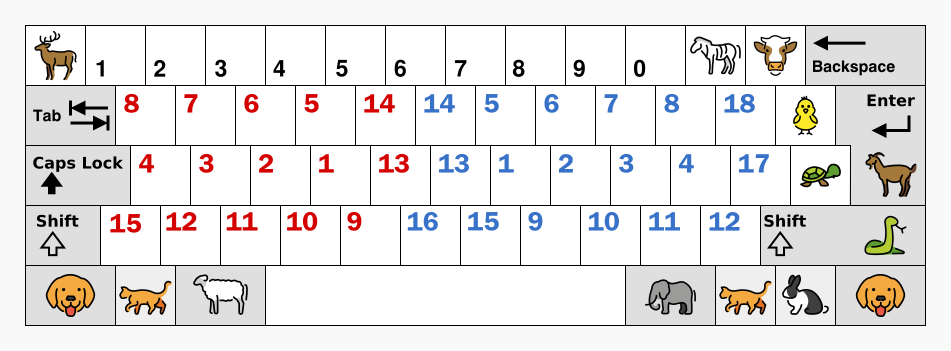
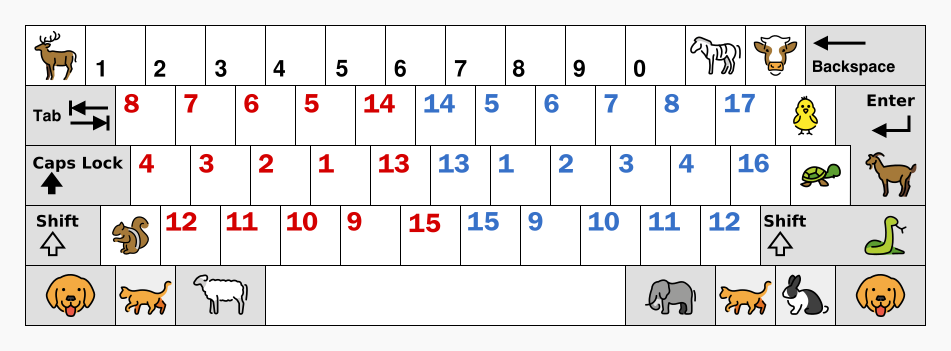
Add files via upload

diff --git a/keyboard/clavaro-tk.py b/keyboard/clavaro-tk.py
@@ -1,27 +1,42 @@
 
-# python clavaro-tk.py "phrkfzwuybq" "slntvgaioec" "'xdmjåöä,.-"
+# python clavaro-tk.py "phrkfzwuybq" "slntvgaioec" "xdmjåöä,.-" # das-fi
+# python clavaro-tk.py "qwertyuiop[" "asdfghjkl;'" "zxcvbnm,./" # en-us
+# python clavaro-tk.py "qwertyuiopå" "asdfghjklöä" "zxcvbnm,.-" # fi
+# clavaro.png 951 x 351 pixels
 
+import argparse
 from tkinter import *
 from PIL import Image, ImageTk
 import random
 import time
 import sys
 
+
+def read_args ():
+  parser = argparse.ArgumentParser ()
+  parser.add_argument ('keyorder', nargs='*')
+  parser.add_argument ("--timelimit", "-t", type=int, default=0)
+  parser.add_argument ("--printresults", "-r", action="store_true")
+  parser.add_argument ("--eventinfo", "-e", action="store_true")
+  args = parser.parse_args ()
+  return (args)
+
+args = read_args()
+
 positions1 = [
   "left-8","left-7","left-6","left-5","left-14",
-  "right-14","right-5","right-6","right-7","right-8","right-18",
+  "right-14","right-5","right-6","right-7","right-8","right-17",
   "left-4","left-3","left-2","left-1","left-13",
-  "right-13","right-1","right-2","right-3","right-4","right-17",
-  # "left-15",
-  "left-12","left-11","left-10","left-9",
-  "right-16","right-15","right-9","right-10","right-11","right-12"]
+  "right-13","right-1","right-2","right-3","right-4","right-16",
+  "left-12","left-11","left-10","left-9","left-15",
+  "right-15","right-9","right-10","right-11","right-12"]
 
-qwerty = "qwertyuiop[" "asdfghjkl;'" "zxcvbnm,./"
-# qwerty = "qwertyuiopå" "asdfghjklöä" "zxcvbnm,.-"
+# qwerty = "qwertyuiop[" "asdfghjkl;'" "zxcvbnm,./"
+qwerty = "qwertyuiopå" "asdfghjklöä" "zxcvbnm,.-"
 # qwerty = "phrkfzwuybq" "slntvgaioec" "xdmjåöä,.-"
 
-if len (sys.argv) > 1:
-  qwerty = "".join (sys.argv [1:])
+if args.keyorder:
+  qwerty = "".join (args.keyorder)
 print ("Key order:", qwerty)
 
 qw = dict (zip (positions1,qwerty))
@@ -30,10 +45,13 @@ special = {
   "adiaeresis": "ä",
   "odiaeresis": "ö",
   "aring": "å",
+  "bracketleft": "[",
   "apostrophe": "'",
+  "semicolon": ";",
   "comma": ",",
   "period": ".",
   "minus": "-",
+  "slash": "/",
 }
 
 left,right = "left","right"
@@ -49,7 +67,7 @@ squares = [
   (right,6,510,60), 
   (right,7,570,60), 
   (right,8,630,60), 
-  (right,18,690,60), 
+  (right,17,690,60), 
   # middle row:
   (left,4,105,120), 
   (left,3,165,120), 
@@ -61,14 +79,13 @@ squares = [
   (right,2,525,120), 
   (right,3,585,120), 
   (right,4,645,120), 
-  (right,17,705,120), 
+  (right,16,705,120), 
   # bottom row:
-  # (left,15,75,180), 
   (left,12,135,180), 
   (left,11,195,180), 
   (left,10,255,180), 
   (left,9,315,180), 
-  (right,16,375,180), 
+  (left,15,375,180), 
   (right,15,435,180), 
   (right,9,495,180),
   (right,10,555,180),
@@ -96,6 +113,7 @@ def st (t):
 
 class Window (Frame):
   def __init__(self, root=None):
+    self.args = args
     self.results_left = {}
     self.results_right = {}
     self.read_results ()
@@ -137,6 +155,8 @@ class Window (Frame):
       text="Keep fingers on the base row.")
     self.avgs = [1000,1000,1000,1000,1000]
     self.gen = self.random_square ()
+    if self.args.timelimit > 0:
+      print ("Time limit",  self.args.timelimit, "minutes.")
   def read_results (self):
     rs = [
       (self.results_left,file_left),
@@ -155,13 +175,24 @@ class Window (Frame):
                rside [a] = [b]
       except:
         pass
-    print ("Old results:")
-    print ("Left:",self.results_left)
-    print ("Right:",self.results_right)
+    if args.printresults:
+      print ("Old results:")
+      print ("Left:",self.results_left)
+      print ("Right:",self.results_right)
+  def sort_results (self):
+    for rside in [self.results_left,self.results_right]:
+      rside = {k:sorted (v) [:1000] for k,v in sorted (rside.items ())}
   def on_closing (self,e=None):
-    print ("Results:")
-    print ("Left:",self.results_left)
-    print ("Right:",self.results_right)
+    self.sort_results ()
+    if args.printresults:
+      print ("Results:")
+      print ("Left:",self.results_left)
+      print ("Right:",self.results_right)
+      lres = []
+      for rside in [self.results_left,self.results_right]:
+        lr = sum ([len (v) for k,v in rside.items ()])
+        lres.append (lr)
+      print ("n = ",sum(lres),lres)
     self.save_results ()
     self.root.destroy ()
   def save_results (self):
@@ -170,8 +201,8 @@ class Window (Frame):
       (self.results_right,file_right)]
     for rside,fside in rs:
       f = open (fside,"w")
-      for k,v in sorted (rside.items ()):
-        for x in sorted (v):
+      for k,v in rside.items ():
+        for x in v:
           f.write (f"{k},{x}\n")
       f.close ()
       print ("Wrote",fside) 
@@ -191,12 +222,21 @@ class Window (Frame):
     for r in [rid1,rid2]:
       self.canvas.itemconfig(r, state='normal')
     self.start = time.time ()
+    if self.args.timelimit > 0:
+      now = time.time ()
+      time1 = now - self.globaltime
+      if time1 // 60 >= self.args.timelimit:
+        print (f"Time limit reached ({self.args.timelimit} minutes). Quitting.")
+        self.on_closing ()
   def keydown (self,e):
-    # print ('down', e, e.char, e.keysym, e.keycode)
+    if args.eventinfo:
+      print ('down', e, e.char, e.keysym, e.keycode)
     keyname = e.keysym
     if keyname in special:
       keyname = special [keyname]
     if not self.started:
+      self.globaltime = time.time ()
+
       self.canvas.itemconfig (self.tx1, state='hidden')
       self.canvas.itemconfig (self.tx2, state='hidden')
       print ("Started.")

diff --git a/keyboard/clavaro-plot.py b/keyboard/clavaro-plot.py
@@ -1,0 +1,48 @@
+
+import pandas as pd
+import matplotlib.pyplot as plt
+import numpy as np
+import seaborn as sns
+from PIL import Image
+
+my_dpi = 96
+fig, ax = plt.subplots (
+  1, 2, figsize=(951/my_dpi, 420/my_dpi), dpi=my_dpi,
+  gridspec_kw={'width_ratios': [15, 17]})
+cmap1 = sns.color_palette (palette="tab20c", n_colors=18)
+ax[0].set (ylim=(0.0, 2.25))
+ax[1].set (ylim=(0.0, 2.25))
+df1 = pd.read_csv (
+  "results-left.txt", header=None, 
+  usecols=[0,1], names=["x","y"])
+df2 = pd.read_csv (
+  "results-right.txt",header=None, 
+  usecols=[0,1], names=["x","y"])
+print ("len (left):",len(df1))
+print ("len (right):",len(df2))
+
+sns.boxplot (data=df1,x='x',y='y',ax=ax[0], palette=cmap1)
+sns.boxplot (data=df2,x='x',y='y',ax=ax[1], palette=cmap1)
+ax[0].set_title('Left')
+ax[0].set_ylabel ('')    
+ax[0].set_xlabel ('')
+ax[1].set_title('Right')
+ax[1].set_ylabel ('')    
+ax[1].set_xlabel ('')
+fig.tight_layout ()
+fig.savefig ("results-1.png")
+
+image1 = 'results-1.png'
+image2 = 'clavaro.png'
+img1 = Image.open (image1)
+img2 = Image.open (image2)
+w1,h1 = img1.size
+w2,h2 = img2.size
+margin = 20
+result = Image.new (
+  mode='RGB', size=(w1, h1 + margin + h2),color='white')
+result.paste (img1, (0, 0))
+result.paste (img2, (0, h1 + margin))
+result.save ('results.png')
+result.show()
+
